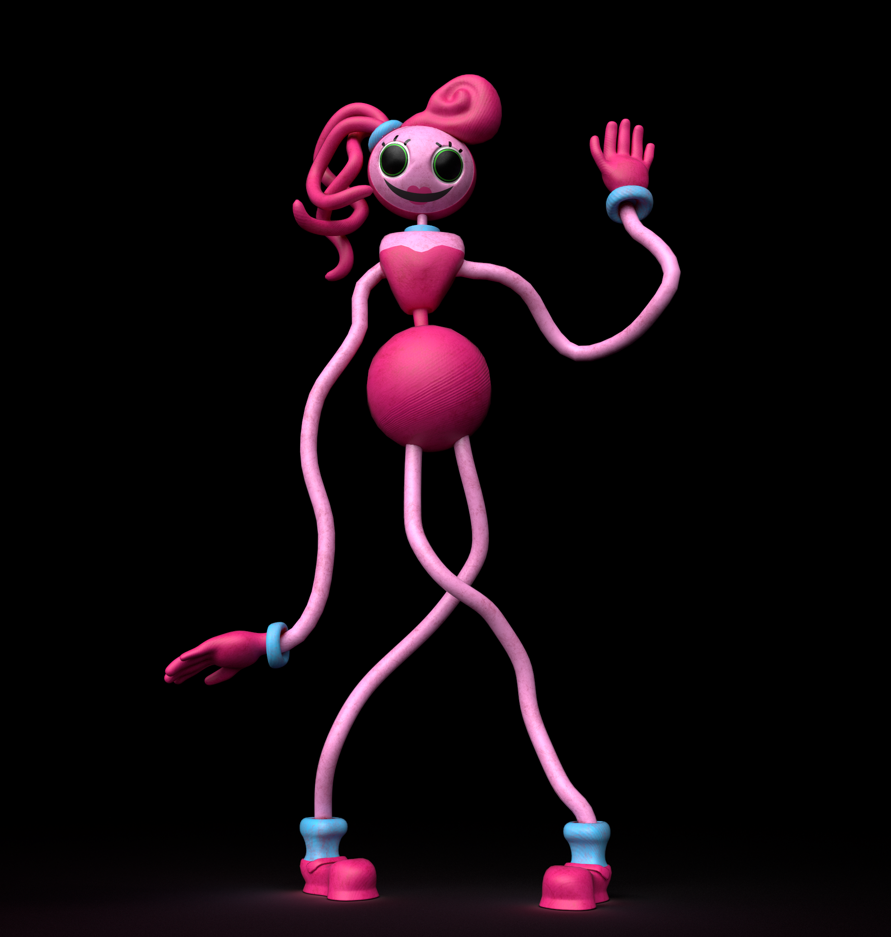
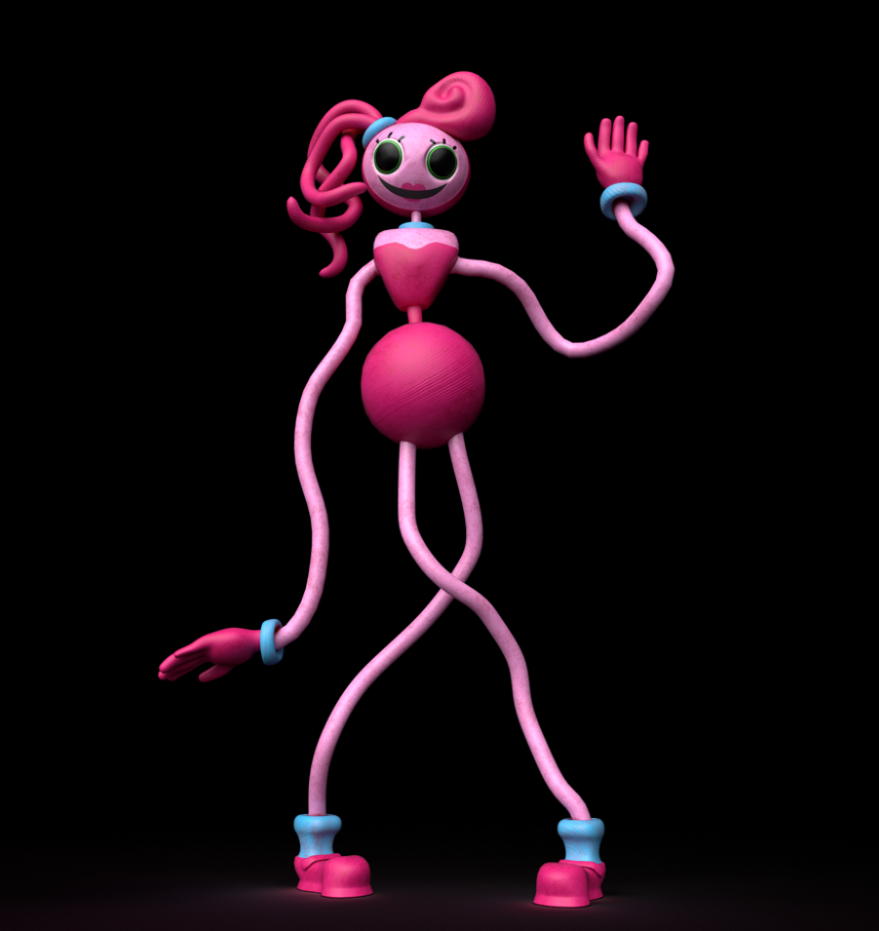
Ilomilo en el carrusel

diff --git a/index.html b/index.html
@@ -168,6 +168,19 @@
                         </div>
                     </article>
 
+                    <!-- Ilomilo -->
+                    <article class="card project-card carousel-item glow-yellow">
+                        <div class="inner-carousel">
+                            <img src="Media/Images/Ilomilo nuevo.jpg" alt="Ilomilo Render principal - personaje 3D" class="inner-item" loading="lazy">
+                            <img src="Media/Images/Ilomilo nuevo 2.jpg" alt="Ilomilo Render alternativo - segundo ángulo" class="inner-item" loading="lazy">
+                        </div>
+                        <div class="card-content">
+                            <span class="badge badge-accent">Modelado 3D</span>
+                            <h4>Ilomilo</h4>
+                            <p class="meta-label">Desliza sobre la imagen para ver el segundo ángulo.</p>
+                        </div>
+                    </article>
+
                     <!-- Animación Diamante Blanco -->
                     <article class="card project-card carousel-item glow-white">
                         <div class="inner-carousel">
@@ -499,6 +512,7 @@
         <span class="close-modal">&times;</span>
         <img class="modal-content" id="expandedImg" alt="Vista ampliada">
     </div>
+
 
     <script src="script.js"></script>
 </body>
